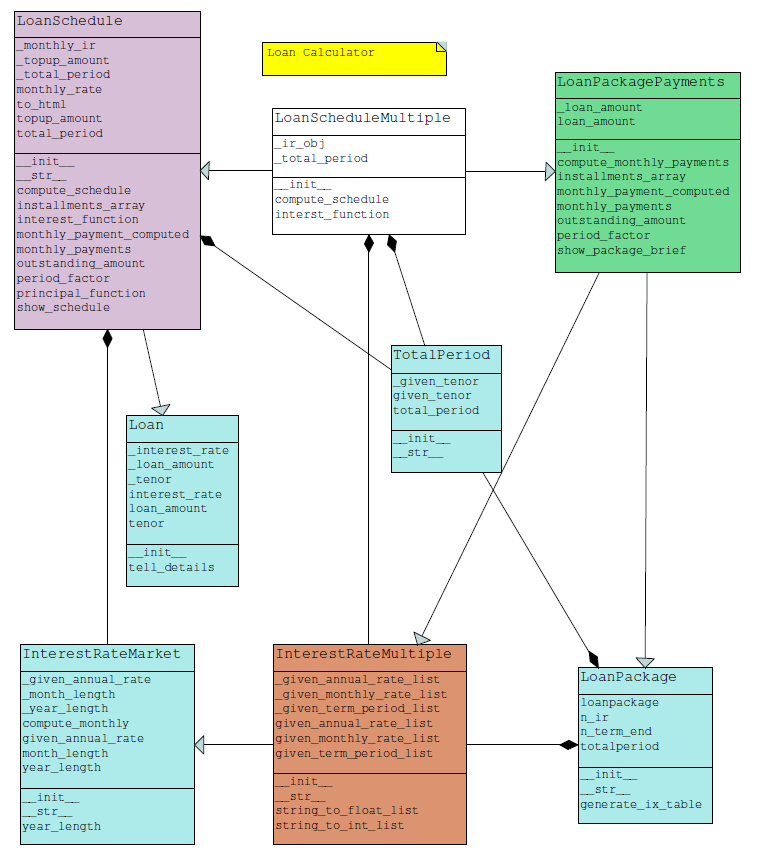
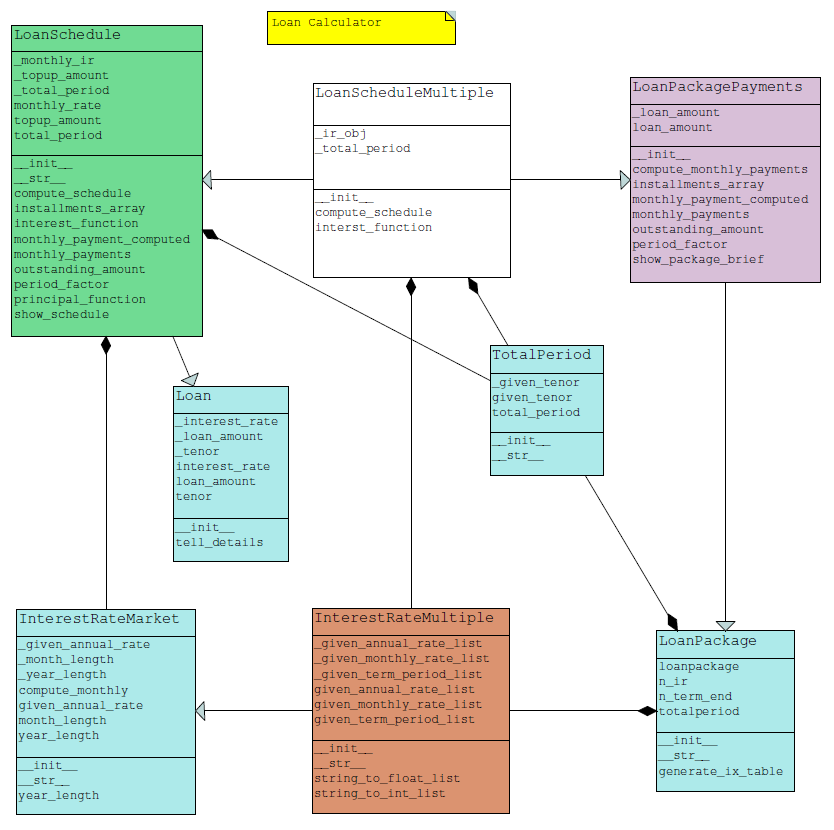
updated uml + readme

diff --git a/Readme.md b/Readme.md
@@ -1,6 +1,6 @@
 [![PayPal donate button](https://img.shields.io/badge/Support-LoanCalculator-blue)](https://github.com/ang-jason/Loan-Calculator)
 # Loan Calculator
-Loan Calculator is a app-lite Python library providing analytics and amortization table for your mortgage computation (local context)
+Loan Calculator is a app-lite Python library providing analytics and amortisation table for your mortgage computation (local context)
 
 ### This is an open-ended category.
 
@@ -22,15 +22,15 @@ A mortgage entails paying your monthly payments (installments). The party that p
 To compute the monthly payments - it is a function (loan amount, interest rates, loan duration)
 ![](https://i.imgur.com/YX9Gw1R.png)(picture from https://www.wallstreetmojo.com/mortgage-formula/)
 
-- P - Princpal, Loan amount `$440,248`
-- r - Annual interest rate `1.39%pa`
-- n - No. of payable periods (typical in months) (`30` years)
+- **P** - Princpal, Loan amount `$440,248`
+- **r** - Annual interest rate `1.39%pa`
+- **n** - Number of payable periods (typical in months) (`30` years)
 
 For a fixed interest rate (`1.39%`), the monthly payment will be fixed throughout the loan. If it is a variable rate, then your monthly payment will be recomputed every fixed date by the policy of the loan. In market convention, the rate is quoted in an annual basis, and since the payment period is in monthly terms, the monthly rate will be the annual rate is divided by 12. (ie `1.39%/12`)
 
 
 Every month, the payment (`$1,496.26`) to the bank does not directly attribute to your outstanding loan.
-A monthly payment consists of two components - Principal **( P)** and Interest **(I)**
+A monthly payment consists of two components - Principal, **P** and Interest, **I**
 
 Bank will like to take their benefit of providing you the loan - it is the interest. Computed by the previously agreed rate (ie. `1.39%/12`) of the outstanding loan. (`$509.95`)
 
@@ -111,6 +111,8 @@ The design of this library orginated from a single interest rate throughout the 
 
 *Computation were generally done with minimum rounding. Recouncilation were performed to rounding of monthly payment as it illustrate billing to your two decimal places and the diference were negligence.*
 
+### Initiation of Loan Schedule
+
 ```python
 # Begin by importing the LoanSchedule class
 # for single interest rate(fixed)
@@ -155,6 +157,7 @@ package_rate.show_schedule()
 
 ```
 
+### Processing analytics
 After generating the `show_schedule()` dataframe, we make use of `AnalyseSchedule` module to provide further analytics.
 
 ```python
@@ -216,20 +219,30 @@ yearly_labels, data_col_names, data_sbalance, data_payment, \
 
 
 ## Under the hood
-InterestRateMarket class was created with future flexible of market conventions. Some financial instituation may differ from market convention.
+InterestRateMarket class was created with future flexible of market conventions. Some financial institution may differ from market convention.
 
 *E.g if the interest rate is 1.39% pa. The monthly rate will be 1.39%/12(months).*
 
 There is a possible that the computation could be divided by 360/365 (days) and multiple by calendar days in month or 30.
 
 ```python    
-def __init__(self, given_annual_rate, year_length=12, month_length=0):
-    self.given_annual_rate = given_annual_rate/100.0
-    self.year_length = year_length
-    self.month_length = month_length
+class InterestRateMarket:
+    def __init__(self, given_annual_rate, year_length=12, month_length=0):
+        self.given_annual_rate = given_annual_rate/100.0
+        self.year_length = year_length
+        self.month_length = month_length
 
 ```
+Expanding on to the various available loan packages in the market, InterestRateMultiple class was created to accept multiple stepped interest rates and term periods.
 
+```python    
+class InterestRateMultiple(InterestRateMarket):
+    def __init__(self, given_annual_rate_list, given_term_period_list):
+        self.given_annual_rate_list = given_annual_rate_list
+        self.given_term_period_list = given_term_period_list
+        self.given_monthly_rate_list = given_annual_rate_list
+
+```
 
 
 ## Future Features or Improvements
